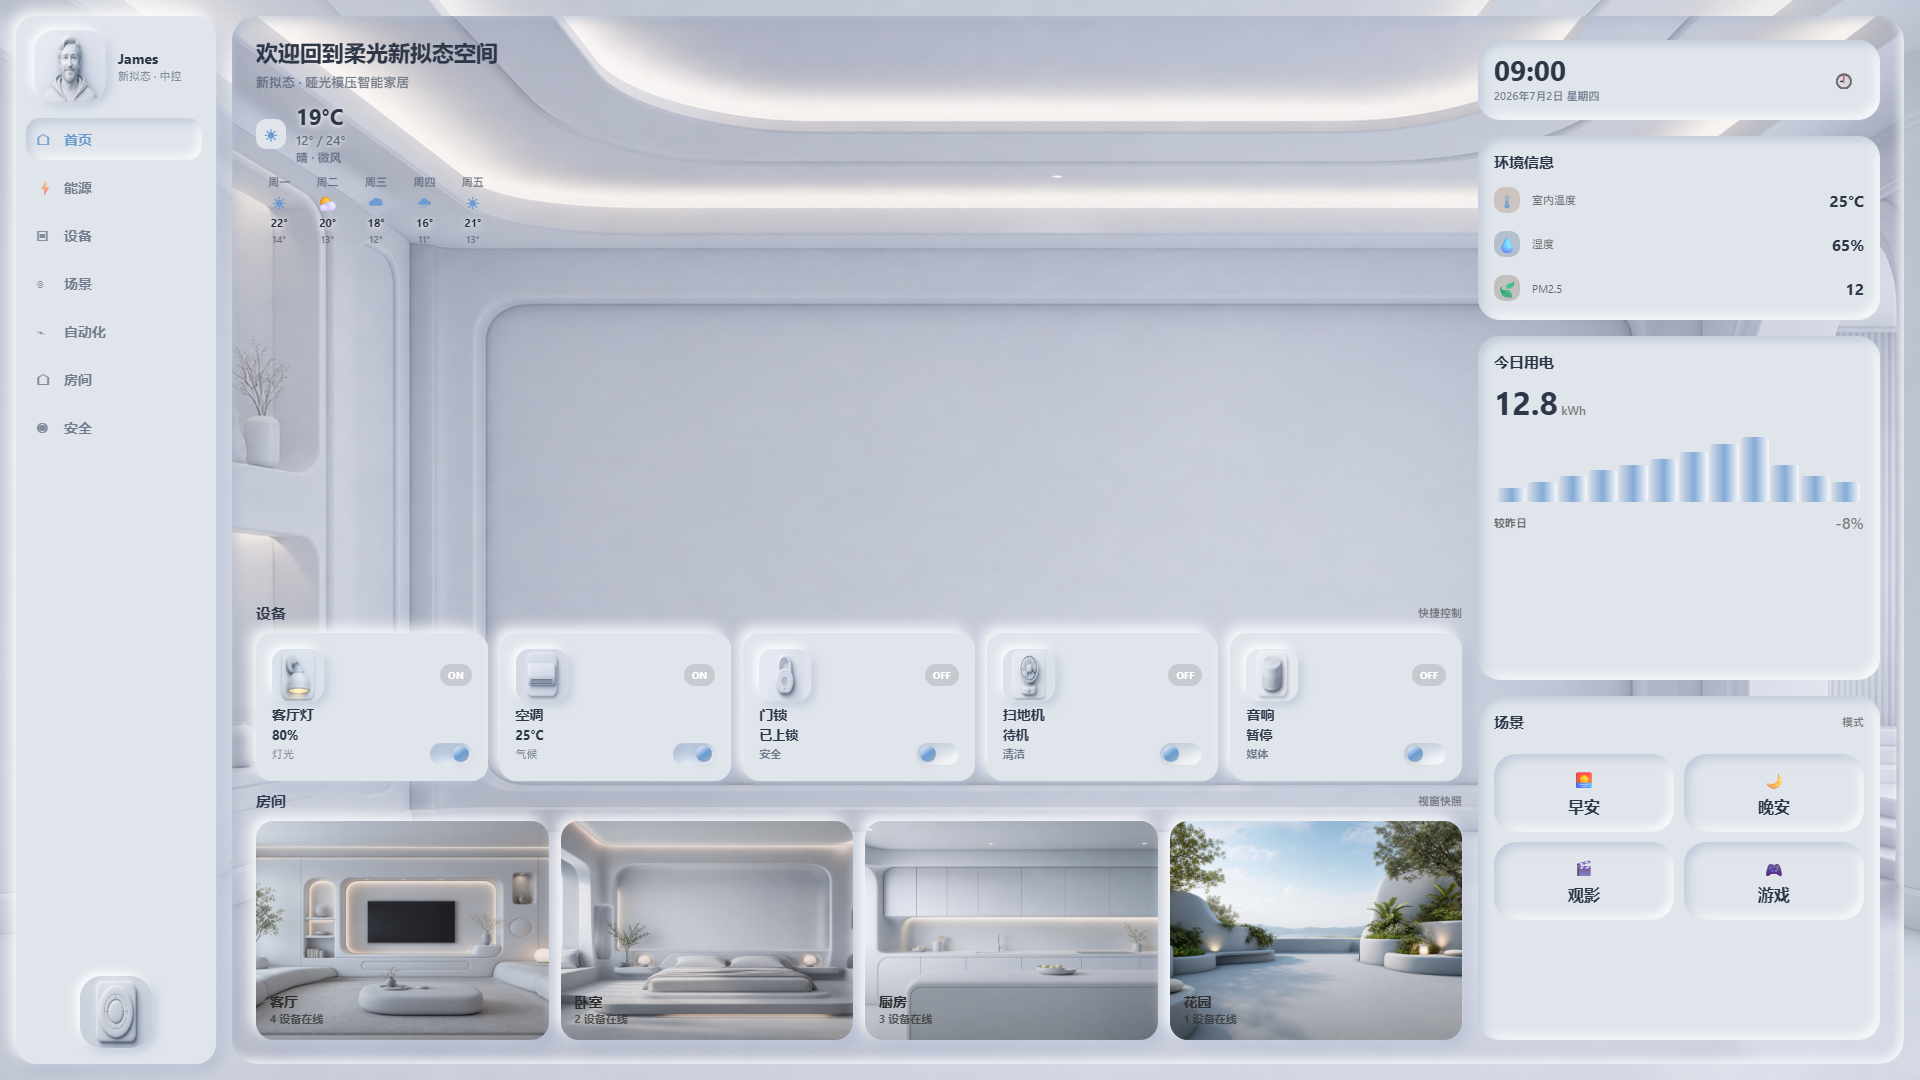
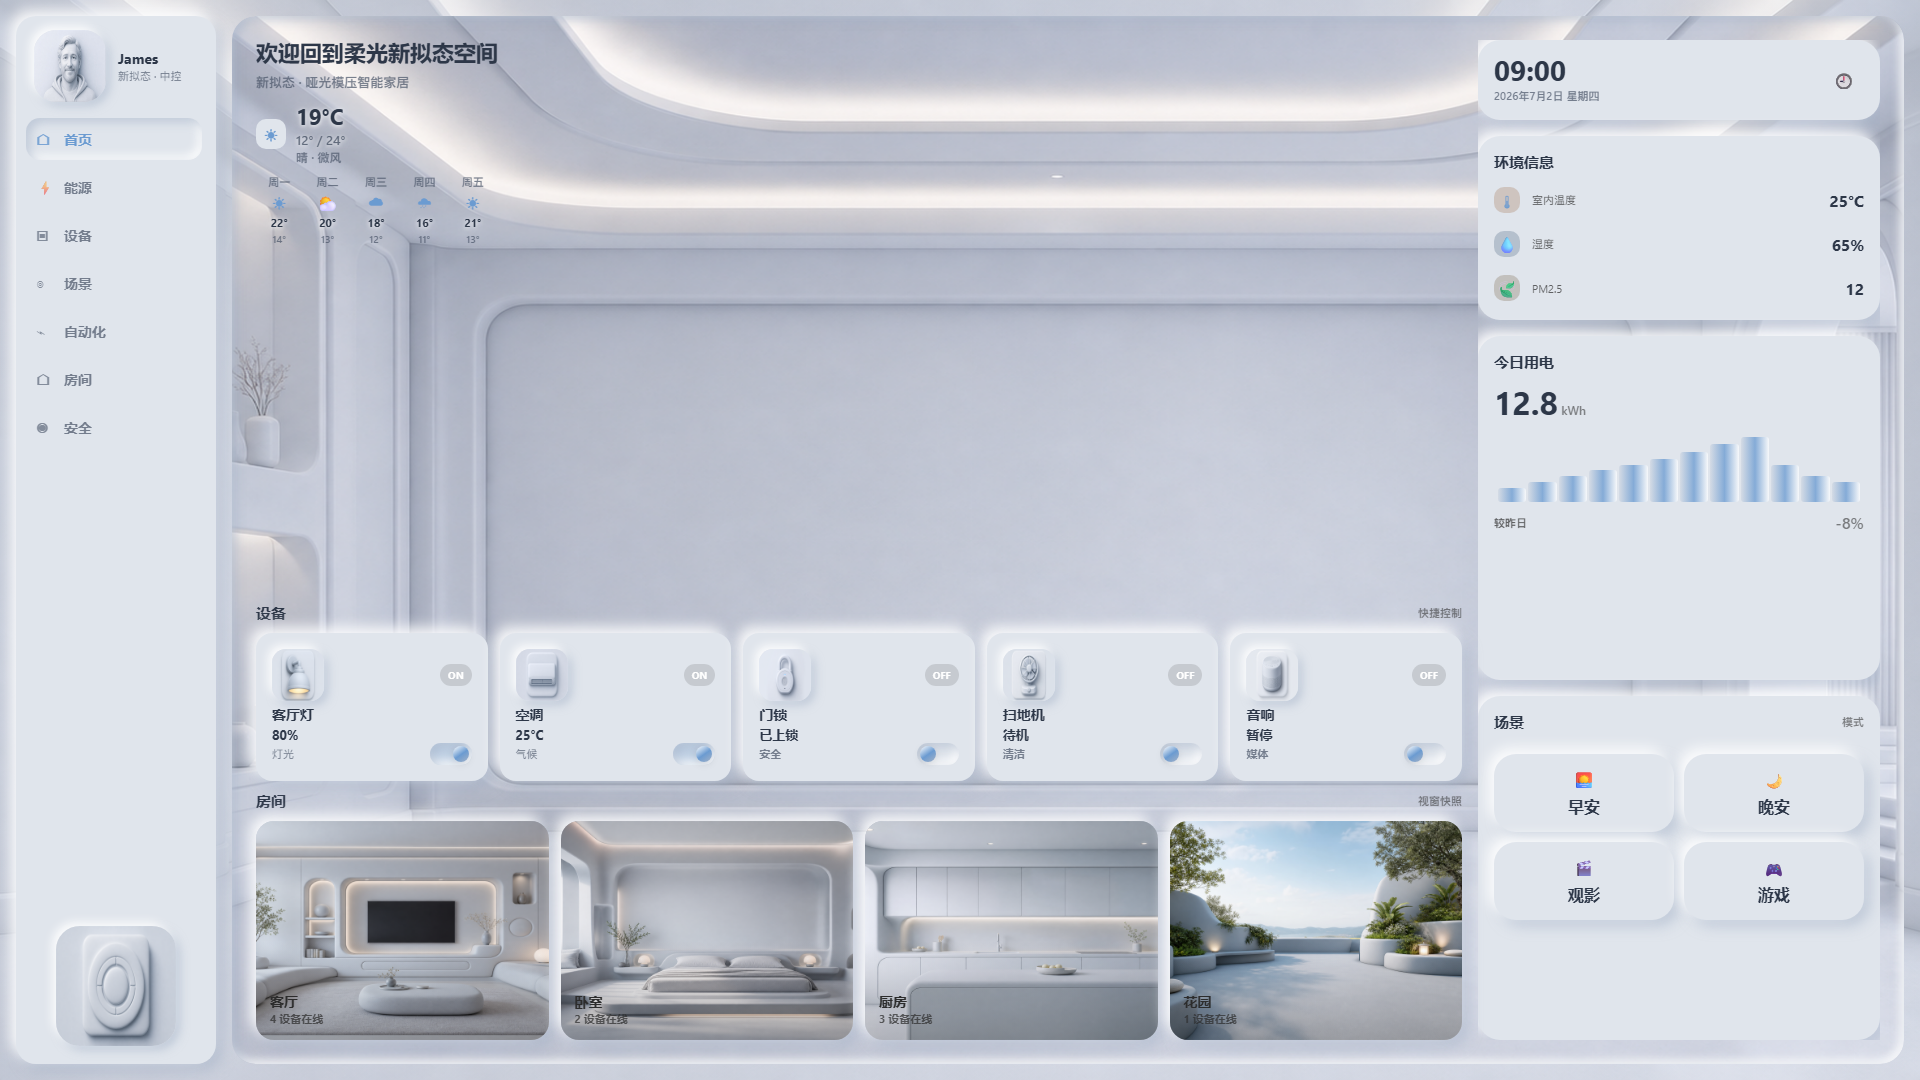
fix(skins): enlarge sidebar decoration and raise right cards

diff --git a/skins-pro/neumorphism-soft-ui/theme.css b/skins-pro/neumorphism-soft-ui/theme.css
@@ -1045,13 +1045,13 @@ button { font:inherit; }
 }
 .sidebar-art {
   aspect-ratio: 1 !important;
-  width: 72px !important;
-  max-width: 72px !important;
-  min-height: 72px !important;
-  max-height: 72px !important;
-  height: 72px !important;
-  margin: 8px auto 4px !important;
-  border-radius: 22px !important;
+  width: 120px !important;
+  max-width: 120px !important;
+  min-height: 120px !important;
+  max-height: 120px !important;
+  height: 120px !important;
+  margin: 10px auto 6px !important;
+  border-radius: 24px !important;
   overflow: hidden !important;
   box-shadow: var(--neo-raised-sm) !important;
   background: var(--neo-surface) !important;
@@ -1069,7 +1069,7 @@ button { font:inherit; }
   border: 0 !important;
   box-shadow: var(--neo-inset) !important;
 }
-/* Right column: flat transparent stack — Soft UI inset only on inner cards */
+/* Right column: flat transparent stack — Soft UI raised only on inner cards */
 .side {
   background: transparent !important;
   backdrop-filter: none !important;
@@ -1083,13 +1083,14 @@ button { font:inherit; }
 .side .time-card,
 .side .panel-energy,
 .side .panel-scenes,
-.side .maintenance-card {
+.side .maintenance-card,
+.side .scene {
   background: var(--neo-surface) !important;
   backdrop-filter: none !important;
   -webkit-backdrop-filter: none !important;
   border: 0 !important;
   color: var(--neo-text-strong) !important;
-  box-shadow: var(--neo-inset) !important;
+  box-shadow: var(--neo-raised) !important;
   border-radius: 22px !important;
 }
 .weather-row,
@@ -1102,9 +1103,6 @@ button { font:inherit; }
   color: var(--neo-text-strong) !important;
   box-shadow: var(--neo-raised) !important;
   border-radius: 22px !important;
-}
-.side .scene {
-  box-shadow: var(--neo-inset) !important;
 }
 .chip.active {
   box-shadow: var(--neo-inset) !important;
